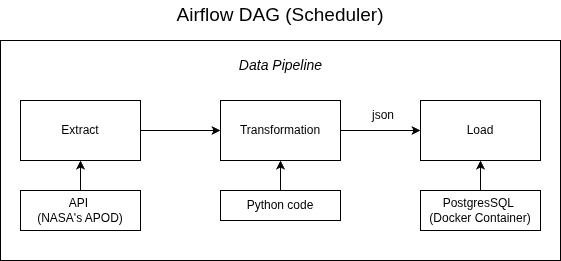
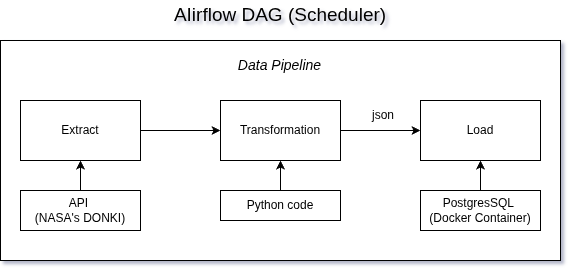
Updated README.md and the ETL pipline graph image

diff --git a/README.md b/README.md
@@ -1,8 +1,8 @@
 ## Project Overview: 
 
-> *Airflow ETL Pipeline with Postgres and API Integration*
+> *Airflow ETL Pipeline with Postgres and NASA Solar Flare (DONKI) API Integration*
 
-This project involves creating an ETL (Extract, Transform, Load) pipeline using Apache Airflow. The pipeline extracts data from an external API (in this case, NASA's Astronomy Picture of the Day (APOD) API), transforms the data, and loads it into a Postgres database. The entire workflow is orchestrated by Airflow, a platform that allows scheduling, monitoring, and managing workflows.
+This project involves creating an ETL (Extract, Transform, Load) pipeline using Apache Airflow. The pipeline extracts data from an external API (in this case, NASA's **Solar Flare (DONKI) API**), transforms the data, and loads it into a Postgres database. The entire workflow is orchestrated by Airflow, which allows scheduling, monitoring, and managing workflows.
 
 <img src="./images/ETL-Starter.jpg" 
            alt="Image Caption" 
@@ -14,39 +14,35 @@ The project leverages Docker to run Airflow and Postgres as services, ensuring a
 
 ### Key Components of the Project:
 
-- Airflow for Orchestration:
+- **Airflow for Orchestration**:
 
-Airflow is used to define, schedule, and monitor the entire ETL pipeline. It manages task dependencies, ensuring that the process runs sequentially and reliably.
-The Airflow DAG (Directed Acyclic Graph) defines the workflow, which includes tasks like data extraction, transformation, and loading.
-Postgres Database:
+Airflow is used to define, schedule, and monitor the ETL pipeline. It manages task dependencies, ensuring that the process runs sequentially and reliably.  The Airflow DAG (Directed Acyclic Graph) defines the workflow, including tasks like data extraction, transformation, and loading.
 
-- PostgreSQL for database:
+- **Postgres Database**:
 
-Postgres is used to store the extracted and transformed data.
-Postgres is hosted in a Docker container, making it easy to manage and ensuring data persistence through Docker volumes.
-We interact with Postgres using Airflow’s PostgresHook and PostgresOperator.
-NASA API (Astronomy Picture of the Day):
+PostgreSQL is used to store the extracted and transformed data.  
+Postgres is hosted in a Docker container, making it easy to manage and ensuring data persistence through Docker volumes.  
+We interact with Postgres using Airflow’s `PostgresHook` and tasks with the TaskFlow API.
 
-- NASA’s APOD API (Data Source)
+- **NASA API (Solar Flare Data)**:
 
-The external API used in this project is NASA’s APOD API, which provides data about the astronomy picture of the day, including metadata like the title, explanation, and the URL of the image.
-We use Airflow’s SimpleHttpOperator to extract data from the API.
+The external API used in this project is NASA’s **DONKI Solar Flare (FLR) API**, which provides information about solar flare events. The API returns JSON data including fields like flare ID, class type, begin/peak/end times, source location, active region number, and a reference link. We use Airflow’s `HttpOperator` to extract the data from the API.
 
 ---
 
 ### Objectives of the Project:
 
-> Extract Data:
+> **Extract Data**:
 
-The pipeline extracts astronomy-related data from NASA’s APOD API on a scheduled basis (daily, in this case).
+The pipeline extracts solar flare data from NASA’s DONKI API on a scheduled basis (daily).
 
-> Transform Data:
+> **Transform Data**:
 
-Transformations such as filtering or processing the API response are performed to ensure that the data is in a suitable format before being inserted into the database.
+Transformations such as selecting relevant fields and formatting timestamps are performed to ensure that the data is suitable for database storage.
 
-> Load Data :
+> **Load Data**:
 
-The transformed data is loaded into a Postgres database. The data can be used for further analysis, reporting, or visualization.
+The transformed data is loaded into a Postgres database. Duplicate flare entries are prevented using a unique constraint on the `flr_id` field. The stored data can be used for further analysis, reporting, or visualization.
 
 ---
 
@@ -54,14 +50,22 @@ The transformed data is loaded into a Postgres database. The data can be used fo
 
 The ETL pipeline is orchestrated in Airflow using a DAG (Directed Acyclic Graph). The pipeline consists of the following stages:
 
-1. `Extract (E)`:
-The SimpleHttpOperator is used to make HTTP GET requests to NASA’s APOD API.
-The response is in JSON format, containing fields like the title of the picture, the explanation, and the URL to the image.
+1. **`Extract (E)`**:  
+The `HttpOperator` is used to make HTTP GET requests to NASA’s Solar Flare (DONKI) API.  
+The response is in JSON format, containing fields like flare ID, class type, begin/peak/end times, source location, active region number, and a reference link.
 
-2. `Transform (T)`:
-The extracted JSON data is processed in the transform task using Airflow’s TaskFlow API (with the @task decorator).
-This stage involves extracting relevant fields like title, explanation, url, and date and ensuring they are in the correct format for the database.
+2. **`Transform (T)`**:  
+The extracted JSON data is processed in the transform task using Airflow’s TaskFlow API (with the `@task` decorator).  
+This stage involves extracting relevant fields and ensuring that timestamps are in the correct format for the database.
 
-3. `Load (L)`:
-The transformed data is loaded into a Postgres table using PostgresHook.
-If the target table doesn’t exist in the Postgres database, it is created automatically as part of the DAG using a create table task.
+3. **`Load (L)`**:  
+The transformed data is loaded into a Postgres table using `PostgresHook`.  
+If the target table doesn’t exist, it is created automatically as part of the DAG using a create table task.  
+The `ON CONFLICT` clause ensures that duplicate flare entries are skipped.
+
+---
+
+### Notes:
+
+- The pipeline fetches **solar flare data for the last 30 days by default**, as per NASA DONKI API behavior.  
+- The project runs entirely in **Dockerized Airflow and Postgres**, making it portable and reproducible.
